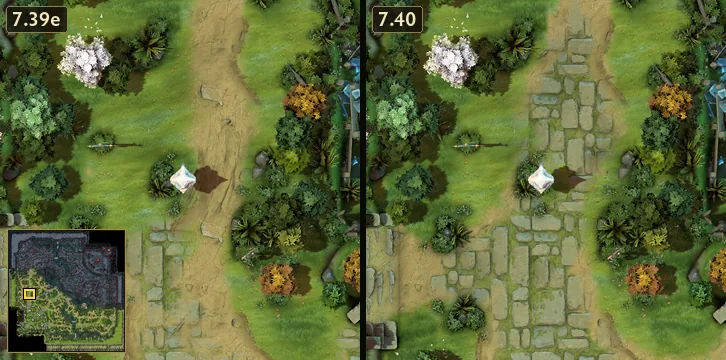
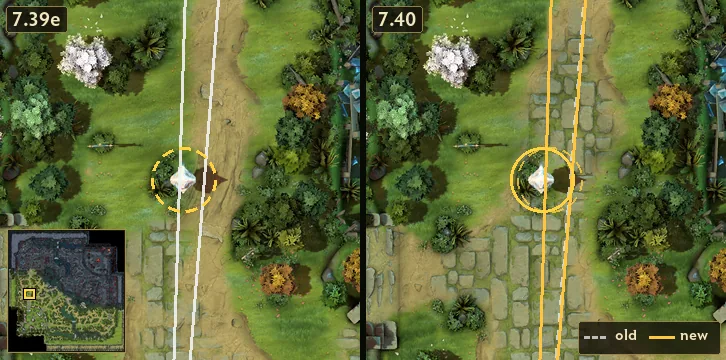
feat: General Updates — lane creep cards, one siege timing row, stand-out Facets row; clear lane shots
- Rows about one lane creep go under that creep's card (unit_header, name prefix dropped): 7.41
  Flagbearer / Siege Creep, 7.40 Melee / Flagbearer Creep; "Lane Creeps" keeps the shared meeting point row.
- Valve's "First <X> …" + "Second <X> …" become one row (_merge_ordinal_pair): 7.41 siege creep timings.
- "<X> removed from the game" is a stand-out row li(major=True) with its DEL tag (filters, weights), not
  a tag-less intro line.
- Lane path pictures: old path white, new path gold (old as a dashed ghost) with an old / new key, instead
  of the teams' green / red (7.41, 7.40_21, 7.38c_9 re-rendered).

diff --git a/styles.css b/styles.css
@@ -4398,6 +4398,10 @@ ul.changes li > .row-tag-empty {
 ul.changes li > .row-text {
   grid-column: 1;
 }
+/* The change that sums up a patch (li(major=True), 7.41 "Facets removed from the game"): a bigger, brighter row
+   with a gold rule under it, so it doesn't read like one more line; its tag stays (filters, weights). */
+ul.changes li.li-major { padding: 6px 0 9px; margin-bottom: 6px; border-bottom: 1px solid rgba(227, 196, 106, 0.28); }
+ul.changes li.li-major > .row-text { font-size: 16px; font-weight: 600; color: var(--text-bright); letter-spacing: 0.2px; }
 ul.changes li > .row-text::before {
   content: "";
   float: left;

diff --git a/generate_patch_code_v2.py b/generate_patch_code_v2.py
@@ -1110,12 +1110,35 @@ _GENERAL_TOPICS = (
 )
 _MAP_SECTION = re.compile(r"\bmap\b|terrain|objective", re.I)      # map notes keep Valve's order (terrain rows)
 _GONE_FROM_GAME = re.compile(r"^[A-Z][\w' -]{2,40} removed from the game\.?$")
+# a row about ONE lane creep goes under that creep's card, as a unit's rows do (owner 2026-10-16: "разделить на
+# категории: Flagbearer, Siege, как с героями/юнитами"); its name prefix goes ("Flagbearer Creep: X" -> "X")
+_LANE_CARDS = {
+    "unit|creep-goodguys-melee": ("Melee Creep", "npc_dota_creep_goodguys_melee"),
+    "unit|creep-goodguys-ranged": ("Ranged Creep", "npc_dota_creep_goodguys_ranged"),
+    "unit|creep-goodguys-flagbearer": ("Flagbearer Creep", "npc_dota_creep_goodguys_flagbearer"),
+    "unit|goodguys-siege": ("Siege Creep", "npc_dota_goodguys_siege"),
+}
+
+
+def _lane_card(line):
+    """The card a lane creep row belongs to: the one creep its also_dyn names, else None (a row about several)."""
+    parts = _li_parts(line)
+    keys = re.findall(r"'(unit\|[a-z-]+)'", (parts[1].get("also_dyn") or "") if parts else "")
+    return keys[0] if len(keys) == 1 and keys[0] in _LANE_CARDS else None
+
+
+def _strip_creep_name(line, key):
+    name = _LANE_CARDS[key][0]
+    m = re.match(rf'^(W\(li\("){re.escape(name)}:? ([a-z])', line, re.I)
+    return f"{m.group(1)}{m.group(2).upper()}{line[m.end():]}" if m else line
 
 
 def _general_topics(lines, title=""):
     """A general section's rows sorted into topic subgroups (_GENERAL_TOPICS): a topic with two rows or more gets its
-    subgroup at the end, everything else stays on top. "<X> removed from the game" — the kind of change that sums up
-    a patch (7.41 Facets) — leads the section as its intro line instead of a row. Map sections are left alone."""
+    subgroup at the end, everything else stays on top. Lane creep rows about one creep go under that creep's card
+    (unit_header, after the subgroups); the shared ones stay in "Lane Creeps". "<X> removed from the game" — the kind
+    of change that sums up a patch (7.41 Facets) — leads the section as a stand-out row (li(major=True)), its tag
+    kept. Map sections are left alone."""
     if _MAP_SECTION.search(title or ""):
         return lines
     rows = [l for l in lines if l.startswith("W(li(")]
@@ -1136,10 +1159,48 @@ def _general_topics(lines, title=""):
     if not groups and not lead:
         return lines
     moved = set(lead) | {l for l, t in tops.items() if t in groups}
-    out = [f'W(section_intro({_li_parts(l)[0]!r}))' for l in lead]
+    out = []
+    for l in lead:
+        out += ['W(ul_open())', l[:-2] + ", major=True))", 'W(ul_close())']
     out += _drop_empty_ul([l for l in lines if l not in moved])
+    cards = {}
     for name in groups:
-        out += [f'W(subgroup("{name}"))', 'W(ul_open())'] + [l for l, t in tops.items() if t == name] + ['W(ul_close())']
+        these = [l for l, t in tops.items() if t == name]
+        if name == "Lane Creeps":
+            for l in these:
+                key = _lane_card(l)
+                if key:
+                    cards.setdefault(key, []).append(_strip_creep_name(l, key))
+            these = [l for l in these if not _lane_card(l)]
+        if these:
+            out += [f'W(subgroup("{name}"))', 'W(ul_open())'] + these + ['W(ul_close())']
+    for key in _LANE_CARDS:
+        if key in cards:
+            name, icon = _LANE_CARDS[key]
+            out += [f'W(unit_header("{name}", "../icons/units/{icon}.png", general=False))', 'W(ul_open())']
+            out += _merge_ordinal_pair(cards[key]) + ['W(ul_close())']
+    return out
+
+
+_ORDINAL = re.compile(r"^First (.+?) (?=decreased|increased|reduced|changed|now|is)\b")
+
+
+def _merge_ordinal_pair(lines):
+    """Valve's "First <X> …" + "Second <X> …" rows → one row "First <X> …, second …" (owner 2026-10-16, 7.41: "First
+    +1 siege creep timing decreased from 35:00 to 30:00" + "Second +1 siege creep timing now occurs at 60:00"). The
+    first row's tag and links stay."""
+    out = []
+    for line in lines:
+        prev = _li_parts(out[-1]) if out else None
+        cur = _li_parts(line)
+        m = _ORDINAL.match(prev[0]) if prev and cur else None
+        lead = f"Second {m.group(1)} " if m else ""
+        if m and cur[0].startswith(lead):
+            joined = f"{prev[0]}, second {cur[0][len(lead):]}"
+            out[-1] = out[-1].replace(repr(prev[0]) if f'"{prev[0]}"' not in out[-1] else f'"{prev[0]}"',
+                                      f'"{joined}"', 1)
+            continue
+        out.append(line)
     return out
 
 

diff --git a/content/p740.py b/content/p740.py
@@ -58,16 +58,19 @@ def build():
     W(li("All illusions now have 800 daytime vision and 400 nighttime vision", b([1800, 800], [800, 400], slash=True),
          extra=inline_note("Previously inherited the hero's full vision (typically 1800 daytime / 800 nighttime)")))
     W(ul_close())
-    # the lane creep rows get their own subgroup (owner 2026-10-16; generator _lane_creeps_subgroup)
-    W(subgroup("Lane Creeps"))
+    # each lane creep's rows under its card, as units elsewhere (owner 2026-10-16; generator _general_topics)
+    W(unit_header("Melee Creep", "../icons/units/npc_dota_creep_goodguys_melee.png", general=False))
     W(ul_open())
-    W(li("Melee Creep: Gold Bounty now increases by 1 per lane creep upgrade interval (every 7:30)", t("NEW"), also_dyn=['unit|creep-goodguys-melee']))
-    W(li("Flagbearer Creep: Gold Bounty now increases by 1 per lane creep upgrade interval", t("NEW"), also_dyn=['unit|creep-goodguys-flagbearer']))
-    W(li("Flagbearer Creep: AoE Bounty Radius increased from 1200 to 1500", b(1200, 1500), also_dyn=['unit|creep-goodguys-flagbearer']))
-    W(li("Flagbearer Creep: When killed by a player controlled unit, the Flagbearer Creep always grants Bonus Bounty to the killer's hero regardless of the hero's proximity to the Flagbearer Creep", t("REWORK"), also_dyn=['unit|creep-goodguys-flagbearer']))
-    W(li("Flagbearer Creep: Bonus Gold from killing Flagbearers is now classified as creep gold instead of ability gold", t("QoL"), extra=inline_note("Has no gameplay effect, but makes a post game gold breakdown more accurate"), also_dyn=['unit|creep-goodguys-flagbearer']))
-    W(li("Flagbearer Creep: Inspiration Aura no longer affects heroes", t("DEL"), also_dyn=['unit|creep-goodguys-flagbearer']))
-    W(li("Flagbearer Creep: Inspiration Aura now also provides a magic resistance bonus to affected creeps starting with 0% and improving by 4% with every lane creep upgrade interval, up to a maximum of 15 upgrades", t("NEW"), also_dyn=['unit|creep-goodguys-flagbearer']))
+    W(li("Gold Bounty now increases by 1 per lane creep upgrade interval (every 7:30)", t("NEW"), also_dyn=['unit|creep-goodguys-melee']))
+    W(ul_close())
+    W(unit_header("Flagbearer Creep", "../icons/units/npc_dota_creep_goodguys_flagbearer.png", general=False))
+    W(ul_open())
+    W(li("Gold Bounty now increases by 1 per lane creep upgrade interval", t("NEW"), also_dyn=['unit|creep-goodguys-flagbearer']))
+    W(li("AoE Bounty Radius increased from 1200 to 1500", b(1200, 1500), also_dyn=['unit|creep-goodguys-flagbearer']))
+    W(li("When killed by a player controlled unit, the Flagbearer Creep always grants Bonus Bounty to the killer's hero regardless of the hero's proximity to the Flagbearer Creep", t("REWORK"), also_dyn=['unit|creep-goodguys-flagbearer']))
+    W(li("Bonus Gold from killing Flagbearers is now classified as creep gold instead of ability gold", t("QoL"), extra=inline_note("Has no gameplay effect, but makes a post game gold breakdown more accurate"), also_dyn=['unit|creep-goodguys-flagbearer']))
+    W(li("Inspiration Aura no longer affects heroes", t("DEL"), also_dyn=['unit|creep-goodguys-flagbearer']))
+    W(li("Inspiration Aura now also provides a magic resistance bonus to affected creeps starting with 0% and improving by 4% with every lane creep upgrade interval, up to a maximum of 15 upgrades", t("NEW"), also_dyn=['unit|creep-goodguys-flagbearer']))
     W(ul_close())
 
     W(plain_header("Map Objectives"))

diff --git a/scripts/gen/terrain_shots.py b/scripts/gen/terrain_shots.py
@@ -298,13 +298,15 @@ def spot_patch(spot, patch):
     return spot[2] if len(spot) > 2 else patch
 
 
-LANE_RGB = {"good": (126, 208, 96), "bad": (255, 106, 84)}
+# old path white, new path gold — not the teams' green / red (owner 2026-10-16: "непонятно, где старая, а где
+# новая, т.к 2 цвета используется"); the side is plain from the minimap
+LANE_OLD, LANE_NEW = (240, 240, 240, 235), (255, 196, 64, 255)
 
 
 def _lanes(img, cx, cy, r, diff, side, half, width):
     """The lane creep paths of one side (2026-10-06, the owner: "where are the screenshots?" for 7.38c "The Top Lane
-    creep paths have been slightly adjusted"): Radiant solid green, Dire dashed red, as on the Terrain page's Lane
-    creep paths layer; on the new side the old path a light dashed ghost (dashed = "where it was")."""
+    creep paths have been slightly adjusted"): the old map shows the old paths white; the new map the new paths gold
+    over the old ones as a white dashed ghost (dashed = "where it was"), with an old / new key in its corner."""
     d = ImageDraw.Draw(img, "RGBA")
     k = half / (2 * r)
 
@@ -326,11 +328,37 @@ def _lanes(img, cx, cy, r, diff, side, half, width):
                        fill=colour, width=w)
                 t += step
     lanes = (diff or {}).get("lanes") or {}
-    if side == "new":
+    if side == "old":
         for p in lanes.get("old", []):
-            poly(p["points"], (255, 255, 255, 150), max(1, width - 1), (6 * width, 3 * width))
-    for p in lanes.get(side, []):
-        poly(p["points"], LANE_RGB[p["team"]] + (255,), width, (7 * width, 4 * width) if p["team"] == "bad" else None)
+            poly(p["points"], LANE_OLD, width, None)
+        return
+    for p in lanes.get("old", []):
+        poly(p["points"], LANE_OLD[:3] + (190,), max(1, width - 1), (6 * width, 3 * width))
+    for p in lanes.get("new", []):
+        poly(p["points"], LANE_NEW, width, None)
+    _lane_key(d, half, width)
+
+
+def _lane_key(d, half, width):
+    """"— old  — new" in the new half's bottom-right corner, on a dark plate like the version label."""
+    font = ImageFont.truetype(os.path.join(_ROOT, "src", "fonts", "radiance-semibold.otf"), max(11, half // 24))
+    pad, seg = max(4, half // 60), max(14, half // 14)
+    items = [("old", LANE_OLD[:3] + (190,), True), ("new", LANE_NEW, False)]
+    tw = sum(seg + pad + d.textlength(t, font=font) + 2 * pad for t, _c, _d in items)
+    h = font.size + 2 * pad
+    x0, y0 = half - tw - 2 * pad, half - h - 2 * pad
+    d.rounded_rectangle([x0, y0, half - pad, half - pad], radius=3, fill=(20, 16, 9, 205), outline=(227, 196, 106, 150))
+    x, ym = x0 + pad, y0 + pad + h / 2 - pad / 2
+    for text, colour, dashed in items:
+        if dashed:
+            step = seg / 3
+            for k in range(3):
+                d.line([x + k * step, ym, x + k * step + step * 0.6, ym], fill=colour, width=width)
+        else:
+            d.line([x, ym, x + seg, ym], fill=colour, width=width)
+        x += seg + pad
+        d.text((x, y0 + pad), text, font=font, fill=(244, 230, 191, 255))
+        x += d.textlength(text, font=font) + 2 * pad
 
 
 # max bonus speed -> fill (alpha) and outline, as the Terrain page's Currents layer (builders/terrain._CURRENT_ZONE)

diff --git a/content/p741.py b/content/p741.py
@@ -7,8 +7,10 @@ def build():
     W(section("General Updates"))
 
     W(plain_header("Global Changes"))
-    # the patch's biggest change leads the section (owner 2026-10-16; generator _general_topics: "X removed from the game")
-    W(section_intro("Facets removed from the game"))
+    # the patch's biggest change: a stand-out row that keeps its DEL tag (owner 2026-10-16; generator _general_topics)
+    W(ul_open())
+    W(li("Facets removed from the game", t("DEL"), major=True))
+    W(ul_close())
     W(ul_open())
     W(li("All sections of currents now give a max movement speed bonus of 150", t("BUFF"),
          extra=inline_note("Previously was only provided by sections on the base and near it, while other sections provided max bonus of 100.")))
@@ -28,18 +30,26 @@ def build():
     W(li("Abilities that had 'per level up' scaling changed to be 'per level'", t("MISC"),
          extra=inline_note("This mostly affects heroes reworked in update 7.40 and Largo.")))
     W(ul_close())
-    # the lane creep rows get their own subgroup (owner 2026-10-16; generator _general_topics)
+    # lane creeps: the shared row in "Lane Creeps", each creep's own rows under its card, as units elsewhere
+    # (owner 2026-10-16; generator _general_topics). also_dyn keeps them on the creeps' pages.
     W(subgroup("Lane Creeps"))
     W(ul_open())
-    W(li("Flagbearer Creep Experience Bounty increased from 57 to 60", b(57, 60), also_dyn=['unit|creep-goodguys-flagbearer']))
-    W(li("First +1 siege creep timing decreased from 35:00 to 30:00", t("REWORK"), also_dyn=['unit|goodguys-siege']))   # a clock time: no % (audit 2026-10-05)
-    # REWORK like the first timing, so the two stay first → second (owner 2026-10-16; canon: a clock-time timing)
-    W(li("Second +1 siege creep timing now occurs at 60:00", t("REWORK"), also_dyn=['unit|goodguys-siege']))
     W(li("Adjusted the meeting point of the lane creeps toward the offlane", t("MISC"),
          extra=inline_note(
              "Now offlane creeps are slightly slowed upon leaving the base for a couple of seconds. Safe lane creeps are slightly accelerated upon leaving the base for a couple of seconds. Both of these changes are effective until the 7:30 mark."
          ), also_dyn=['unit|creep-goodguys-melee', 'unit|creep-goodguys-ranged', 'unit|creep-goodguys-flagbearer']))
     W(ul_close())
+    W(unit_header("Flagbearer Creep", "../icons/units/npc_dota_creep_goodguys_flagbearer.png", general=False))
+    W(ul_open())
+    W(li("Experience Bounty increased from 57 to 60", b(57, 60), also_dyn=['unit|creep-goodguys-flagbearer']))
+    W(ul_close())
+    W(unit_header("Siege Creep", "../icons/units/npc_dota_goodguys_siege.png", general=False))
+    W(ul_open())
+    # Valve's two timing rows as one (owner 2026-10-16; generator _merge_ordinal_pair); a clock time: REWORK, no %
+    W(li("First +1 siege creep timing decreased from 35:00 to 30:00, second now occurs at 60:00", t("REWORK"),
+         also_dyn=['unit|goodguys-siege']))
+    W(ul_close())
+
     W(plain_header("Map Objectives"))
     W(subgroup("Wisdom Shrines"))
     W(ul_open())

diff --git a/tests/test_general_regroup.py b/tests/test_general_regroup.py
@@ -18,13 +18,31 @@ LANES = ['W(ul_open())', FACETS, INNATE, UI, 'W(ul_close())', 'W(ul_open())', SI
          'W(ul_open())', CURRENTS, 'W(ul_close())']
 
 
-def test_topics_become_subgroups_and_the_lead_an_intro():
-    out = g._general_topics(LANES, "Global Changes")
-    assert out[0] == "W(section_intro('Facets removed from the game'))"
+MEET = ("W(li(\"Adjusted the meeting point of the lane creeps toward the offlane\", t(\"MISC\"), "
+        "also_dyn=['unit|creep-goodguys-melee', 'unit|creep-goodguys-ranged']))")
+SIEGE2 = "W(li(\"Second +1 siege creep timing now occurs at 60:00\", t(\"REWORK\"), also_dyn=['unit|goodguys-siege']))"
+
+
+def test_topics_become_subgroups_and_the_lead_a_major_row():
+    out = g._general_topics(LANES + ['W(ul_open())', MEET, 'W(ul_close())'], "Global Changes")
+    assert out[1] == 'W(li("Facets removed from the game", t("DEL"), major=True))'   # stand-out, tag kept
     s, l = out.index('W(subgroup("Scaling with Hero Level"))'), out.index('W(subgroup("Lane Creeps"))')
     assert out.index(CURRENTS) < s < l                                  # a row of no topic stays on top
-    assert out[s + 2:s + 4] == [INNATE, UI] and out[l + 2:l + 4] == [SIEGE, FLAG]
+    assert out[s + 2:s + 4] == [INNATE, UI]
+    assert out[l + 2] == MEET                                           # a row about several creeps
+    f = out.index('W(unit_header("Flagbearer Creep", "../icons/units/npc_dota_creep_goodguys_flagbearer.png", '
+                  'general=False))')
+    assert out[f + 2].startswith('W(li("Experience Bounty increased from 57 to 60"')   # its name prefix goes
+    assert l < f and any(x.startswith('W(unit_header("Siege Creep"') for x in out[f:])   # cards after the subgroups
     assert 'W(ul_open())\nW(ul_close())' not in "\n".join(out)          # emptied blocks are gone
+
+
+def test_first_and_second_rows_become_one():
+    out = g._merge_ordinal_pair([SIEGE, SIEGE2])
+    assert len(out) == 1
+    assert g._li_parts(out[0])[0] == ("First +1 siege creep timing decreased from 35:00 to 30:00, "
+                                      "second now occurs at 60:00")
+    assert "t(\"REWORK\")" in out[0] and "goodguys-siege" in out[0]
 
 
 def test_a_lone_topic_row_stays_and_map_sections_are_left_alone():

diff --git a/patch/elements.py b/patch/elements.py
@@ -2139,7 +2139,7 @@ def terrain_num_chip(n):
     return f'<span class="badge tnum">{n}</span>'
 
 
-def li(text, badge="", extra="", force_tag=None, ability_row=False, also_dyn=None):
+def li(text, badge="", extra="", force_tag=None, ability_row=False, also_dyn=None, major=False):
     _tphrase = ""
     if isinstance(text, str):
         # a terrain note's micro-screenshots ride along under its text, opened by the words naming its object
@@ -2226,6 +2226,8 @@ def li(text, badge="", extra="", force_tag=None, ability_row=False, also_dyn=Non
         left_tag = terrain_num_chip(_State.terrain_rows)
 
     classes = ["terrain-row"] if _State.terrain_rows is not None and isinstance(text, str) else []
+    if major:                 # the change that sums up a patch (7.41 "Facets removed from the game"): a stand-out row
+        classes.append("li-major")
     marker = ""
     text_noclass = (re.sub(r'<!--TIP-->.*?<!--/TIP-->', '', text, flags=re.S)
                     if isinstance(text, str) else text)

diff --git a/docs/agent-rules/patch-tags.md b/docs/agent-rules/patch-tags.md
@@ -289,7 +289,8 @@ HTML-escape тултип через `_html.escape(text, quote=True)`. CSS `.ench
 - **Раздел, где все строки REWORK** (кроме QoL/NEW, минимум 3), описывает переделанную механику: `plain_header(..., new="Reworked mechanic")`. Строки REWORK становятся описанием, подсказка про Alt (QoL) остаётся изменением. Под Map Objectives метка «Reworked objective».
 - **Несколько строк в «?» — это список:** `info_tip` сам рисует золотой кружок на каждой строке, строка `&nbsp;&nbsp;– x` становится подпунктом. Одна строка остаётся обычным текстом. Работает на всём сайте, в контенте ничего менять не нужно.
 - **Два «?» в конце одной строки → один** (2026-10-09, Earth Spirit 7.40: `note_box` «Now it's 25» + `inline_note` «Damage at level 1…»): `li()` склеивает их (`merge_tips`), заметки идут частями `.pop-part` через тонкую линию. Тест `tests/test_merge_tips.py`. *Почему:* два «?» подряд выглядят как ошибка.
-- **General раскладывается по темам** (2026-10-16, 7.41 Global Changes: строки про врождённые, течения и лайн крипов стояли вперемешку). Генератор `_general_topics`: тема с двумя строками и больше получает свой подраздел в конце — «Scaling with Hero Level» (per level / hero level / innate abilities), «Lane Creeps» (строки, которым `_link_lane_creeps` дал `also_dyn` на лайн крипа); строки без темы и одиночные остаются сверху. «<X> removed from the game» (7.41 Facets) — вводная фраза раздела (`section_intro`), не строка. Разделы карты (Map / Terrain / Objectives) не трогаются: там порядок Valve. Поправлены 7.41 и 7.40. Тест `tests/test_general_regroup.py`.
+- **General раскладывается по темам** (2026-10-16, 7.41 Global Changes: строки про врождённые, течения и лайн крипов стояли вперемешку). Генератор `_general_topics`: тема с двумя строками и больше получает свой подраздел в конце — «Scaling with Hero Level» (per level / hero level / innate abilities), «Lane Creeps» (строки, которым `_link_lane_creeps` дал `also_dyn` на лайн крипа); строки без темы и одиночные остаются сверху. Строка про ОДНОГО лайн крипа идёт под его карточку (`unit_header`, как у юнитов: Melee / Ranged / Flagbearer / Siege Creep, префикс имени снимается), в «Lane Creeps» остаются общие (точка встречи). «<X> removed from the game» (7.41 Facets) — выделенная строка `li(…, major=True)`: крупнее, ярче, золотая черта снизу, тег DEL остаётся (фильтр, веса); вводной фразой без тега было тускло и терялся DEL (владелец 2026-10-16). Разделы карты (Map / Terrain / Objectives) не трогаются: там порядок Valve. Поправлены 7.41 и 7.40. Тест `tests/test_general_regroup.py`.
+- **«First <X> …» + «Second <X> …» — одна строка** «First <X> …, second …» (2026-10-16, 7.41 таймеры осадных крипов; `_merge_ordinal_pair`, тег и ссылки первой строки).
 - **Таймер на игровых часах «… timing now occurs at 60:00» — REWORK**, как и пара «… timing decreased from 35:00 to 30:00» (канон): иначе NEW вставал выше и порядок «First → Second» ломался.
 - **Уточняющая фраза Valve «All <тот же предмет> …» — в «?» строки выше** (2026-10-16: «Innate abilities no longer scale…» + «All innate abilities that used to scale… now either provide unchangeable bonuses…» → одна строка). Генератор: `_merge_all_followup`; своя заметка второй строки идёт следом в тот же «?».
 - **Точка встречи лайн крипов — со снимком** (2026-10-16): в `data/terrain_spots.json` у 7.41 «Adjusted the meeting point of the lane creeps» — четыре кадра путей сложных линий (`show: ["lanes"]`; пути в файле карты 7.41 сдвинулись), слова «lane creeps» открывают снимки. Сама скорость крипов в файле карты не записана — на снимке пути, не скорость. Так же «All sections of currents …» — два кадра ручьёв, где зоны +100 стали +150 (`show: ["currents"]`, `scripts/gen/terrain_shots._currents`, цвета слоя течений Terrain).

diff --git a/docs/terrain.md b/docs/terrain.md
@@ -411,6 +411,12 @@ Tools → Source Filmmaker, `tools/sfm.dll`) renders leamare's look:
   `data-tiles-old/-new`; scripts.js `updateTiles` (fullscreen only, after zoom/pan) lays the tiles in view over each
   picture — the old ones next to `.tc-old`, the new ones inside the clipped `.tc-new-layer` — once a picture pixel
   would be drawn bigger than a screen pixel. Pages' 1 GB limit: tiles for the site's maps only.
+- **Lane paths on the micro-screenshots: old white, new gold (2026-10-16)** — the owner: "in the line screenshots
+  it's unclear which is old and which is new, two colours are used" (the teams' green / red). Now the old map shows
+  the old paths white, the new map the new paths gold over the old ones as a white dashed ghost, with an "old / new"
+  key in its corner (`terrain_shots._lanes`, `_lane_key`). Current zones draw in the Currents layer's blues
+  (`_currents`: +150 deep, +100 pale). Re-rendering a whole patch rewrites pictures an older script made too —
+  keep only the ones the change is about (7.38c_9, 7.40_21 on 10-16).
 - **Terrain notes with micro-screenshots (2026-10-03)** — the owner: the terrain rows were "all under one tag, mush —
   maybe micro-screenshots, tree positions, now that we know which tree went where". `data/terrain_spots.json` places
   each note that can be seen on the map: `{"match": <the row's text start>, "spots": [[x, y], …], "r": half size}`
